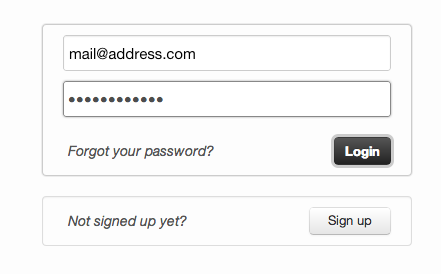
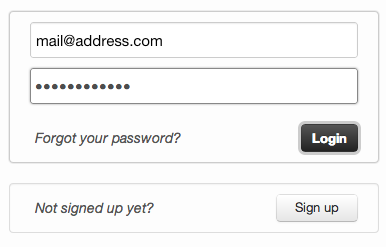
new images refined

diff --git a/getting-started/your-profile.md b/getting-started/your-profile.md
@@ -7,32 +7,28 @@ next: create_an_app
 prev: create_an_account
 ---
 
-Your profile
-============
-The **Profile** section is composed of four tabs&nbsp;: *Personal informations* *Passwords*, *SSH keys* an *account deletion*. 
+# Your profile
 
-Personal informations
----------------------
-<img class="thumbnail img_doc" src="/img/profil.png">  
-When you click on the **Profile** section's button, you are directed on your informations by default. 
+*The Profile section is composed of four tabs&nbsp;: Personal informations, Passwords, SSH keys an account deletion*. 
+
+## Personal informations
+When you click on the **Profile** section's button, you are directed on your informations by default.  
 Here, you can fill all the fields to complete your profile.
+<img class="thumbnail img_doc" src="/img/profil.png">
 
-Change your password
---------------------
+## Change your password
+1. Into **Profile** the *Password* tab allow you to change your password.  
+2. Enter your old password, then the new one and confirm it.
 
-Into **Profile** the *Password* tab allow you to change your password.  
-Simply enter your old password, then the new one and confirm it. Your new password is setted !
-
-SSH keys
-------------
+## SSH keys
 SSH keys are used to establish a secure connection between your computer and Clever Cloud.  
 Adding a SSH key to your Clever Cloud's account is mandatory to deploy via Git.  
 Please note that SSH keys are unique to one user.  
 ####How to get a SSH key?
-* Open a terminal app on linux/mac — Git Bash on Windows —  and go to ~/.ssh/ to check if you have existing SSH keys.
-* If not, generate a new SSH key with the following command&nbsp;:
+1. Open a terminal app on linux/mac — Git Bash on Windows —  and go to ~/.ssh/ to check if you have existing SSH keys.
+2. If not, generate a new SSH key with the following command&nbsp;:
 <pre>ssh-keygen -t rsa -C "your_email@youremail.com"</pre>
-* Then add your SSH key to Clever Cloud, by copying the content of the file:
+3. Then add your SSH key to Clever Cloud, by copying the content of the file:
 <pre>~/.ssh/id_rsa.pub</pre>
 
 ####Declaring your public SSH key on Clever Cloud

diff --git a/getting-started/create-an-account.md b/getting-started/create-an-account.md
@@ -6,19 +6,25 @@ parent: getting_started
 next: your_profile
 ---
 
-Create and account
-==================
+# Create and account
 
-Go to <a href="https://console.clever-cloud.com">console.clever-cloud.com</a>.   
-If you have already created your account, skip this step and go to the section called <a href="/getting-started/your-profile.html">"Your profile"</a>.  
-  
-Otherwise, click on Sign up.
+## Your Clever Cloud account
+To use our service, you will need to create a Clever Cloud account. After the creation of your Clever Cloud account, you will be able to:
+* Declare and deploy applications & databases
+* Buy drops to power your apps
+* Access to your hosting's statistics
+* Manage users (comiong soon)
+
+## Creating Clever Cloud account
+1. Go to <a href="https://console.clever-cloud.com">console.clever-cloud.com</a>.  
+If you have already created your account you can login, skip this step and go to the section called “<a href="/getting-started/your-profile.html">Your profile</a>”.
+2. Otherwise, click on Sign up.
 <img class="thumbnail img_doc" src="/img/login1.png">  
-Then, simply enter your email address and choose a password.  
+3. Then, simply enter your email address and choose a password.  
 Click the **Sign up** button. 
-We will send you a confirmation e-mail within seconds.
+Clever Cloud will send you a confirmation e-mail within seconds.
 <img class="thumbnail img_doc" src="/img/login2.png">  
 <img class="thumbnail img_doc" src="/img/login3.png">  
-Click on the confirmation link sent by email.  
+4. Click on the confirmation link sent by email.  
 You'll be automatically redirected to <a href="https://console.clever-cloud.com">console.clever-cloud.com</a> and logged into your profile.
 
